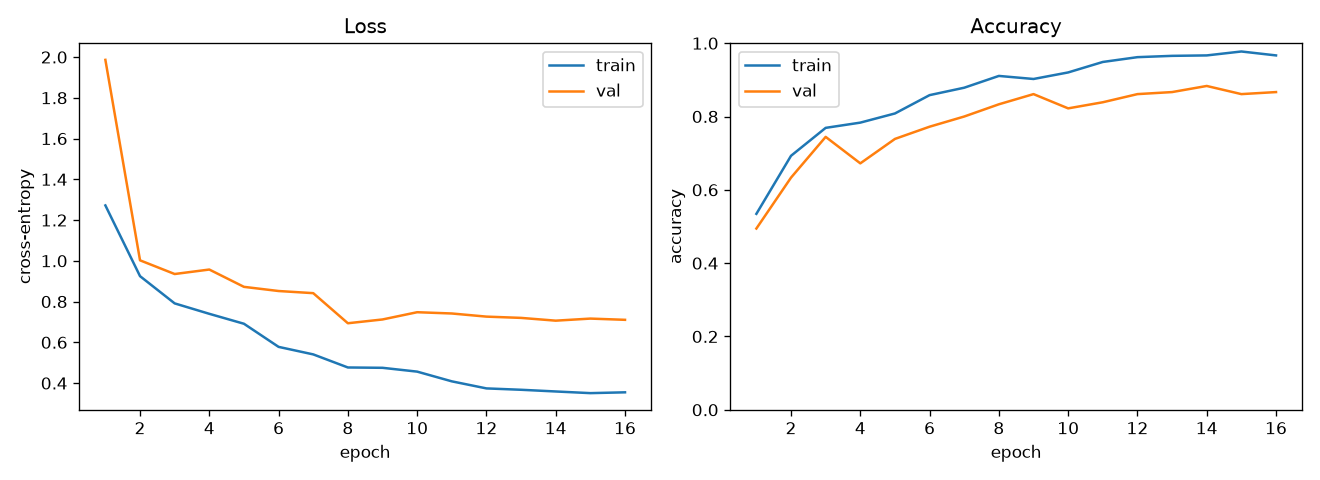
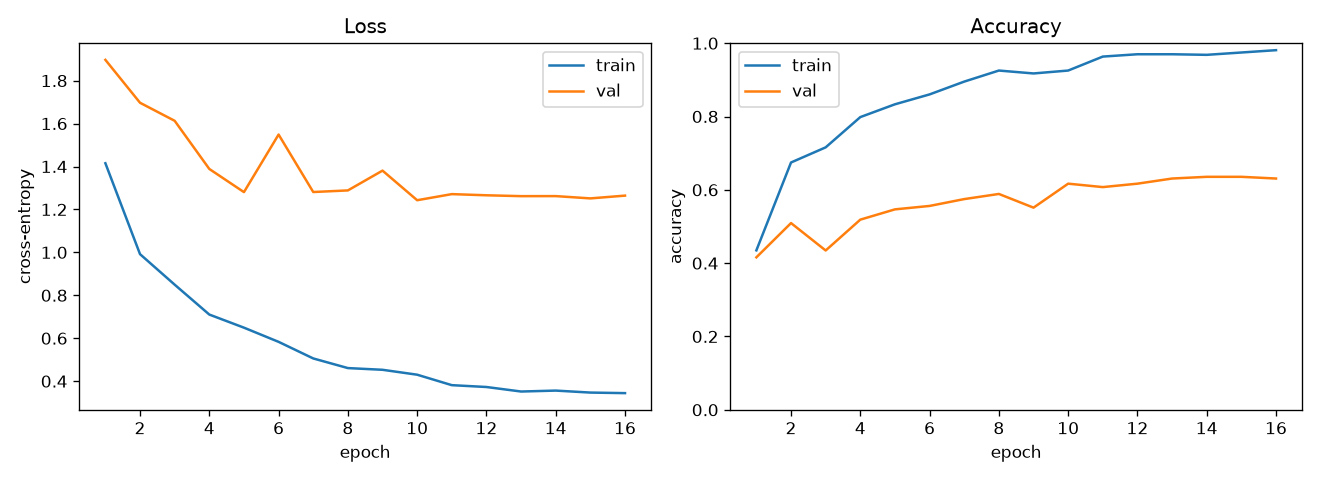
retraining on held out cameras

diff --git a/README.md b/README.md
@@ -24,10 +24,21 @@ A ready-made subset is included in the repo at
 - 200 images per species (1,200 total)
 - every image is a genuine night infrared frame (checked to be grayscale)
 
-`scripts/build_night_wildlife.py` builds this subset: it keeps only night
-captures that are actually grayscale (real infrared), and de-duplicates by
-capture sequence so near-identical burst frames don't end up split across
-training and test.
+`scripts/build_night_wildlife.py` builds this subset. It keeps only night
+captures that are actually grayscale (real infrared), de-duplicates by capture
+sequence, spreads images across many camera sites, and **crops to the animal's
+bounding box** where CCT provides one (otherwise an aspect-preserving letterbox —
+never a blind centre-crop that could slice the animal out). Every image is
+recorded in [`data/night_wildlife/manifest.csv`](data/night_wildlife/manifest.csv)
+with its source id, original filename, class, camera location, sequence id,
+timestamp, split, and SHA-256 checksum, so the dataset is verifiable and the
+split reproducible.
+
+**Split.** Frames from the same camera share backgrounds, so the split is
+**location-held-out**: whole camera sites go to a single split (train / val /
+test), and no background is shared between them. This is what makes the reported
+accuracy a measure of animal recognition rather than background recognition. See
+[`docs/METHODOLOGY.md`](docs/METHODOLOGY.md) for details.
 
 ## How to run it
 
@@ -76,41 +87,44 @@ Everything (checkpoint, `metrics.json`, and the plots) is written to
 
 ## Results
 
-Trained on the 1,200 infrared images above (70% train / 15% val / 15% test),
-16 epochs on CPU. Test set = 180 images, 30 per class.
+Trained on the 1,200 infrared images above, 16 epochs on CPU. The headline
+number is the **location-held-out** split, where whole camera sites are kept out
+of training so the model cannot lean on backgrounds it has already seen.
 
-**Overall test accuracy: 0.77** (random guessing would be 0.17 with 6 classes).
-Macro precision 0.77, recall 0.77, F1 0.77.
+| Split | What it measures | Test acc | Macro F1 |
+|-------|------------------|----------|----------|
+| **Location-held-out** | generalisation to **new camera sites** (the honest number) | **0.37** | 0.35 |
+| Same-location (stratified) | preliminary — shares backgrounds with training | 0.73 | 0.73 |
+
+Random guessing with 6 classes is 0.17, so the model does learn something about
+the animals — but the drop from 0.73 to **0.37** when locations are held out shows
+that most of the same-location score came from **recognising the background, not
+the animal**. The location-held-out 0.37 is the number to trust; the 0.73 should
+be read only as a same-location upper bound.
+
+Per-species, location-held-out split (test = 356 images):
 
 | Species  | Precision | Recall | F1   | Test images |
 |----------|-----------|--------|------|-------------|
-| deer     | 0.88      | 0.93   | 0.90 | 30 |
-| rabbit   | 0.83      | 0.80   | 0.81 | 30 |
-| coyote   | 0.78      | 0.70   | 0.74 | 30 |
-| raccoon  | 0.78      | 0.70   | 0.74 | 30 |
-| opossum  | 0.69      | 0.80   | 0.74 | 30 |
-| bobcat   | 0.70      | 0.70   | 0.70 | 30 |
-
-Deer are the easiest (distinct shape and legs); bobcat is the hardest, and most
-of its mistakes are with the other similarly-sized carnivores. This lines up with
-the literature: accuracy on night infrared camera-trap images sits well below the
-90%+ that models reach on clean daytime photos.
+| coyote   | 0.41      | 0.54   | 0.47 | 69 |
+| deer     | 0.42      | 0.40   | 0.41 | 77 |
+| rabbit   | 0.32      | 0.47   | 0.38 | 47 |
+| opossum  | 0.37      | 0.25   | 0.30 | 75 |
+| raccoon  | 0.32      | 0.25   | 0.28 | 40 |
+| bobcat   | 0.29      | 0.25   | 0.27 | 48 |
 
 ![training curves](docs/demo_results/training_curves.png)
 ![confusion matrix](docs/demo_results/confusion_matrix.png)
 
 ## Known limitations
 
-- The train/val/test split is stratified by species and de-duplicated by capture
-  sequence, but it is **not** split by camera location. Because Caltech Camera
-  Traps images from the same site share backgrounds, some of the reported 0.77
-  accuracy may come from background cues rather than the animal itself. A
-  location-held-out split is planned (see
-  [Issue #1](https://github.com/srivanik8/final-project/issues/1)).
+- The 0.37 is from a **small** dataset (200 images/species) with only six species;
+  behaviour on rare species and at larger scale is untested.
+- Bounding boxes exist for only ~28% of the frames; the rest use a whole-frame
+  letterbox, so some test images still contain background around the animal.
 - The YOLOv8 detection stage in `src/detect.py` is optional and **not yet part of
   the reported results** (see
   [Issue #2](https://github.com/srivanik8/final-project/issues/2)).
-- 200 images per species is small, so behaviour on rare species is untested.
 
 ## Making the dataset bigger
 
@@ -124,10 +138,10 @@ python scripts/build_night_wildlife.py --out data/night_wildlife \
 ## What's in the repo
 
 ```
-src/        config, data loading + preprocessing, model, training, evaluation, detection
+src/        config, data loading, location-grouped split, model, training, evaluation, detection
 scripts/    build the dataset, train, evaluate, predict
-docs/       literature review + saved result plots
-data/       the ready-made infrared dataset
+docs/       literature review, methodology, experiment log, saved result plots
+data/       the ready-made infrared dataset + manifest.csv
 ```
 
 In short: ImageNet-pretrained ResNet-18, infrared grayscale input, later layers

diff --git a/docs/METHODOLOGY.md b/docs/METHODOLOGY.md
@@ -19,17 +19,38 @@ mirror by `scripts/build_night_wildlife.py`.
 - verified to be **grayscale infrared** — the mean HSV saturation of the
   downloaded image is below 6 (daytime colour frames sit around 80);
 - **de-duplicated by capture sequence** (`seq_id`): at most one frame per burst,
-  so near-identical frames don't inflate the dataset.
+  so near-identical frames don't inflate the dataset;
+- **spread across camera locations** — a per-location cap (default 20 images per
+  species per site) stops any single camera dominating a class, so the
+  location-held-out split below has enough distinct sites to work with (16–31
+  locations per species).
 
-Images are converted to grayscale, resized so the short side is 224 px, and
-centre-cropped to 224×224. The committed subset is 200 images per species
-(1,200 total).
+**Cropping.** We do **not** blindly centre-crop, because that can slice the
+animal out of frame. Instead:
 
-**Split.** `src/data.py` performs a **stratified** split — 70% train, 15%
-validation, 15% test — done per class so every species appears in every split.
-The split is deterministic given the seed (default 42), so no image moves between
-splits across runs. (Limitation: the split is not held out by camera *location* —
-see the README limitations and Issue #1.)
+- if the CCT metadata provides a **bounding box** for the frame, we crop to it
+  (with 15% padding), then letterbox to 224×224;
+- otherwise we use an **aspect-preserving letterbox** — resize the whole frame so
+  the long side is 224 and pad the short side — so the animal is never cut and the
+  aspect ratio is never distorted.
+
+The committed subset is 200 images per species (1,200 total).
+
+**Split — location-held-out.** Camera-trap frames from the same site share
+backgrounds, so a random split lets the model recognise the *location* instead of
+the *animal*. `src/split.py` therefore assigns whole camera **locations** to a
+single split (70/15/15 by image count, targeted per species so every species
+appears in every split). No location — and therefore no background — is shared
+between train, validation and test. The assignment is deterministic given the
+seed and is recorded in the dataset manifest (below); `src/data.py` reads the
+split straight from the manifest. A stratified random split is still available
+(`--split-by`/`split_by="stratified"`) for comparison.
+
+**Manifest.** `scripts/build_night_wildlife.py` writes
+`data/night_wildlife/manifest.csv`, one row per image, recording: assigned split,
+class, saved filename, source CCT image id, original filename, camera location,
+sequence id, capture timestamp, whether a bounding box was used, and a SHA-256
+checksum. This makes the dataset verifiable and the experiment reproducible.
 
 ## 2. Preprocessing and augmentation
 
@@ -83,20 +104,22 @@ same split and preprocessing.
 
 ## 5. Evaluation
 
-`src/evaluate.py` scores the best checkpoint on the held-out test split and
-writes:
+`src/evaluate.py` scores the best checkpoint on the location-held-out test split
+and writes:
 
 - **Metrics** (`metrics.json`): accuracy; precision, recall, and F1 both
   **macro-averaged** (each species weighted equally) and **weighted** (by
-  support); plus a full per-class report.
+  support); plus a full per-class report and the split strategy used.
 - **Confusion matrix** (`confusion_matrix.png`), row-normalised.
-- **Baseline comparison** (`baseline_comparison.png`): test accuracy against two
-  published baselines — Norouzzadeh et al. (2018), expert-level ~0.935, as the
-  upper bound; Schneider et al. (2020), out-of-location worst case ~0.70.
 
 Macro and weighted averages are both reported because the macro number is the
 honest one when class support is uneven — it does not let common species mask
 poor performance on rare ones.
+
+We deliberately do **not** plot our accuracy against the Norouzzadeh (2018) or
+Schneider (2020) numbers. Those studies used different datasets, species, and
+evaluation protocols, so a side-by-side bar chart would imply a comparison that
+isn't valid. They appear in the literature review as context only.
 
 ## 6. Optional detection stage
 

diff --git a/docs/experiments.md b/docs/experiments.md
@@ -8,18 +8,32 @@ img/species, infrared night frames); ResNet-18; grayscale→RGB input; image siz
 224; batch size 32; AdamW lr 3e-4, weight decay 1e-4; cosine schedule; label
 smoothing 0.05; seed 42. "Split" = how train/val/test is partitioned.
 
+> **Dataset v2 (2026-07-21):** rebuilt with bounding-box cropping (letterbox
+> fallback), images spread across camera sites, and a manifest with a
+> location-grouped split. Rows below the divider use v2 and are the current
+> results. The two rows above the divider used dataset **v1** (whole-frame
+> centre-crop, random split) and are kept only for history — not comparable to v2.
+
 | Date | Config | Split | Test acc | Macro F1 | Notes |
 |------|--------|-------|----------|----------|-------|
-| 2026-07-21 | pretrained (ImageNet), freeze `layer2`, 16 ep | stratified 70/15/15 | **0.772** | 0.771 | Main result. Deer best (F1 0.90), bobcat worst (0.70). |
-| 2026-07-21 | **from scratch** (no pretrained), train all layers, 16 ep | stratified 70/15/15 | 0.622 | 0.617 | Ablation: same setup without ImageNet init. Transfer learning adds **+0.15** accuracy. |
+| 2026-07-21 | v1 · pretrained, freeze `layer2`, 16 ep | stratified 70/15/15 | 0.772 | 0.771 | v1 dataset (centre-crop). Superseded. |
+| 2026-07-21 | v1 · from scratch, train all, 16 ep | stratified 70/15/15 | 0.622 | 0.617 | v1 ablation. Transfer learning +0.15. Superseded. |
+| — | — | — | — | — | — |
+| 2026-07-21 | **v2 · pretrained, freeze `layer2`, 16 ep** | **location-held-out** | **0.368** | 0.351 | **Headline.** Honest generalisation to unseen sites. |
+| 2026-07-21 | v2 · pretrained, freeze `layer2`, 16 ep | stratified (same-location) | 0.733 | 0.729 | Same data, random split. The 0.73→0.37 gap = background reliance. |
+
+The key v2 result: holding out camera locations drops accuracy from **0.73 to
+0.37** on identical data and settings — most of the same-location score was the
+model recognising backgrounds, not animals.
 
 ## Planned runs
 
 - Linear probe (`--freeze-until all`) — how much do the frozen ImageNet features
-  alone get us?
-- Location-held-out split (Issue #1) — expected to drop accuracy; the gap vs. the
-  stratified split is the headline generalisation number.
-- YOLOv8 detect-and-crop vs. full frame (Issue #2).
+  alone get us on the location-held-out split?
+- YOLOv8 detect-and-crop vs. full frame (Issue #2) — does detector cropping close
+  part of the location-held-out gap?
+- More images/species and more species, to test whether the 0.37 improves with
+  scale.
 
 ## How to reproduce a row
 
@@ -30,9 +44,10 @@ python scripts/run_training.py --data-dir data/night_wildlife --epochs 16 \
     --learning-rate 3e-4 --output-dir results/demo --device cpu
 python scripts/run_evaluation.py --output-dir results/demo --device cpu
 
-# from-scratch ablation
+# same-location comparison (stratified split on the same data)
 python scripts/run_training.py --data-dir data/night_wildlife --epochs 16 \
-    --image-size 224 --no-pretrained --freeze-until "" \
-    --learning-rate 3e-4 --output-dir results/scratch --device cpu
-python scripts/run_evaluation.py --output-dir results/scratch --device cpu
+    --image-size 224 --pretrained --grayscale --freeze-until layer2 \
+    --learning-rate 3e-4 --split-by stratified \
+    --output-dir results/samelocation --device cpu
+python scripts/run_evaluation.py --output-dir results/samelocation --device cpu
 ```

diff --git a/docs/literature_review.md b/docs/literature_review.md
@@ -80,20 +80,24 @@ ECCV. Data: https://lila.science/datasets/caltech-camera-traps*
 
 ## 3. Where this project sits
 
-| Study | Setting | Reported accuracy | Role here |
-|-------|---------|-------------------|-----------|
-| Norouzzadeh 2018 | Serengeti, in-distribution | >93% (expert-level) | upper baseline |
-| Tabak 2019 | cross-region transfer | high with adaptation | motivates transfer learning |
-| Schneider 2020 | out-of-location | can drop below 70% | worst-case baseline |
-| **This project** | **infrared night-vision (CCT subset)** | **measured on held-out test set** | **contribution** |
+The studies below are **context, not directly comparable scores**. Each used a
+different dataset, a different set of species, and a different evaluation protocol
+(number of classes, in- vs out-of-location testing, presence/absence of empty
+frames), so their reported numbers cannot be lined up against ours as a
+leaderboard. They frame what is known about the problem:
 
-The gap in the literature this project targets is the **specific low-light /
-infrared regime**: prior benchmarks are dominated by daytime colour imagery, and
-the works above show both that the task is solvable (2.1) and that it is fragile
-under distribution shift (2.3). By training a transfer-learned CNN on an infrared
-night-vision subset and reporting accuracy, precision, and recall against these
-published baselines, we quantify how much of the expert-level performance
-survives when the images are grayscale, low-contrast night-vision frames.
+| Study | Setting | Reported accuracy | What it tells us |
+|-------|---------|-------------------|------------------|
+| Norouzzadeh 2018 | Serengeti, in-distribution, many classes | >93% (expert-level) | the task is solvable end-to-end at scale |
+| Tabak 2019 | cross-region transfer | high with adaptation | transfer learning adapts across regions |
+| Schneider 2020 | out-of-location | can drop below 70% | accuracy is fragile under location shift |
+
+The gap this project targets is the **specific low-light / infrared regime**:
+prior benchmarks are dominated by daytime colour imagery, and the works above show
+both that the task is solvable (2.1) and that it is fragile under distribution
+shift (2.3). We measure accuracy, precision and recall on our own infrared
+night-vision subset under a **location-held-out** split — the setting Schneider
+et al. show matters most — rather than comparing a headline number against theirs.
 
 ## 4. Method implied by the review
 
@@ -110,5 +114,6 @@ implements:
    (`src/detect.py`), following the detection literature (2.4) and mitigating the
    Schneider generalisation gap (2.3).
 4. **Evaluate** with accuracy, macro/weighted precision and recall, and a
-   confusion matrix, and plot the result against the Norouzzadeh and Schneider
-   baselines (`src/evaluate.py`).
+   confusion matrix on a location-held-out test set (`src/evaluate.py`). The
+   literature results above are reported as context, not as directly comparable
+   scores.
